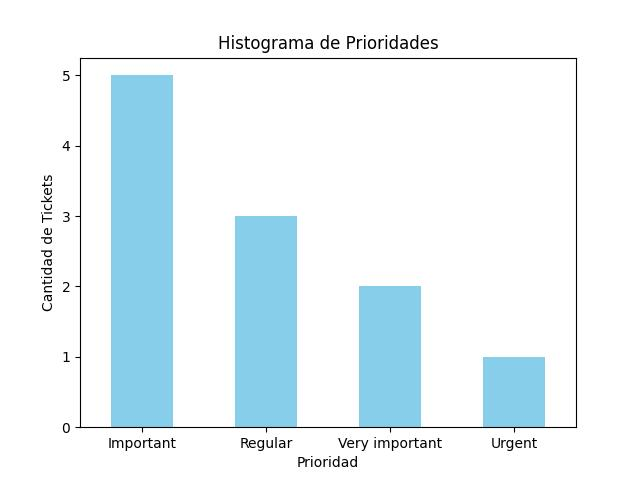
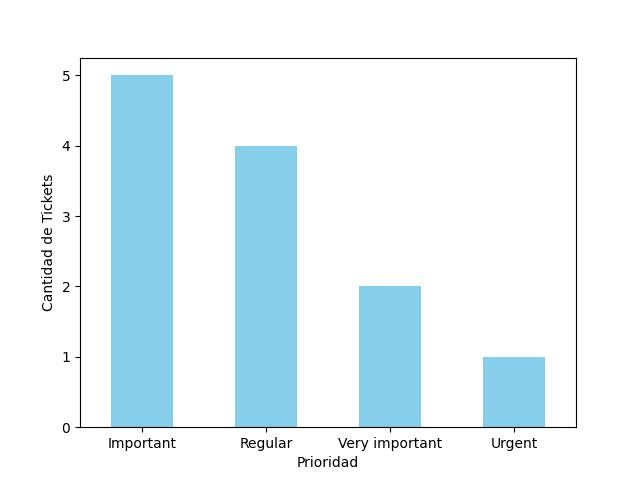
Graph 4

Changed region(s): [[0.3438, 0.2812, 0.4688, 0.4688], [0.3438, 0.0625, 0.6875, 0.125]]

diff --git a/qta/templates/stadistics.html b/qta/templates/stadistics.html
@@ -321,7 +321,7 @@
         </div>
         
         <div class="content">
-            <h3>Grafica #1: Equipo con más reportes</h3>
+            <h3>Graph #1: Equipment with the most reports</h3>
             <p>
                 I have come to the conclusion that <b>{{ Max_Equipment }}</b> is the most reported piece of 
                 equipment at the moment, so I think it is necessary to review the design or production 
@@ -337,7 +337,7 @@
         </div>
         
         <div class="content">
-            <h3>Grafica #2: Histograma de Prioridades</h3>
+            <h3>Graph #2: Histogram of Priorities</h3>
             <p>
                 The analysis reveals that the majority of tickets are distributed in <b>{{ Max_Priority }}</b>. This 
                 suggests that it is crucial to efficiently manage <b>{{ Max_Priority }}</b> priority tickets to ensure 
@@ -353,7 +353,7 @@
         </div>
         
         <div class="content">
-            <h3>Grafica #3: Tarta de Estados</h3>
+            <h3>Graph #3: State Cake</h3>
             <p>
                 The status pie reveals the distribution of tickets according to their status. It can be seen that most of 
                 the tickets are in the status <b>{{ Max_State }}</b>, which could indicate that efficient work is being 
@@ -362,6 +362,40 @@
         </div>
 
     </section>
+
+    <section class="home">
+        <div class="image">
+            <img src="{% static '/graph5.jpg' %}">
+        </div>
+        
+        <div class="content">
+            <h3>Graph #4: Clinic Early Warning</h3>
+            <p>
+                The clinic with the most tickets is <b>{{ Max_Place }}</b> so it is possible to assume a bad handling of the implements by 
+                the medical team of <b>{{ Max_Place }}</b>, it is advisable to clarify how to use the implements, otherwise see more in depth 
+                what is going on.
+                
+            </p>
+        </div>
+
+    </section>
+
+    {% comment %} <section class="home">
+        <div class="image">
+            <img src="{% static '/graph6.jpg' %}">
+        </div>
+        
+        <div class="content">
+            <h3>Graph #5: Clinic Early Warning</h3>
+            <p>
+                The clinic with the most tickets is <b>{{ Max_Place }}</b> so it is possible to assume a bad handling of the implements by 
+                the medical team of <b>{{ Max_Place }}</b>, it is advisable to clarify how to use the implements, otherwise see more in depth 
+                what is going on.
+                
+            </p>
+        </div>
+
+    </section> {% endcomment %}
 
     <footer class="footer-container">
         <div class="footer-content">

diff --git a/qta/views.py b/qta/views.py
@@ -122,7 +122,6 @@ def stadistics(request):
     # Crea la gráfica #2: Histograma de Prioridades
     histogram_data = df['priority'].value_counts()
     histogram_data.plot(kind='bar', color='skyblue')
-    plt.title('Histograma de Prioridades')
     plt.xlabel('Prioridad')
     plt.ylabel('Cantidad de Tickets')
     plt.xticks(rotation=0)
@@ -152,9 +151,46 @@ def stadistics(request):
         estado_mas_comun = "No Value"
 
     plt.pie(estado_counts, labels=estado_counts.index, autopct='%1.1f%%', startangle=140)
-    plt.title('Distribución de Estados de Tickets en la Última Semana')
 
     plt.savefig("graph4.jpg")
     
+    plt.clf()
+    
+    
+    # Grafica 4
+    df = pd.DataFrame(tickets.values('call_time', 'place'))
+    fecha_actual = datetime.datetime.now()
 
-    return render(request, 'stadistics.html', {'Max_Equipment': Max[0], 'Max_Priority' : max_priority_name, 'Max_State': estado_mas_comun})
+    fecha_hace_una_semana = fecha_actual - datetime.timedelta(days=7)
+    fecha_hace_una_semana = pd.to_datetime(fecha_hace_una_semana, utc=True)
+
+    tickets_ultima_semana = df[df['call_time'] >= fecha_hace_una_semana]
+
+    estado_counts = tickets_ultima_semana['place'].value_counts()
+    
+    plt.barh(estado_counts.index, estado_counts)
+    plt.yticks(rotation=90)
+    
+    clinica_mas_comun = estado_counts.idxmax()
+
+    plt.savefig("graph5.jpg")
+    
+    plt.clf()
+    
+    # #Grafica 5
+    # completed_tickets = Ticket.objects.filter(state='Completed')
+
+    # # Calcula la diferencia de tiempo en días entre la fecha de finalización y la fecha de inicio
+    # deltas = [(ticket.call_time - ticket.time_finish).days for ticket in completed_tickets]
+
+    # # Convierte las diferencias de tiempo en un DataFrame de pandas
+    # df = pd.DataFrame({'Días para Completar': deltas})
+
+    # # Crea la gráfica de barras
+    # plt.figure()
+    # plt.bar(df.index, df['Días para Completar'], edgecolor='g')
+    # plt.grid(True)
+
+    # plt.savefig("graph6.jpg")
+
+    return render(request, 'stadistics.html', {'Max_Equipment': Max[0], 'Max_Priority' : max_priority_name, 'Max_State': estado_mas_comun, 'Max_Place': clinica_mas_comun})
